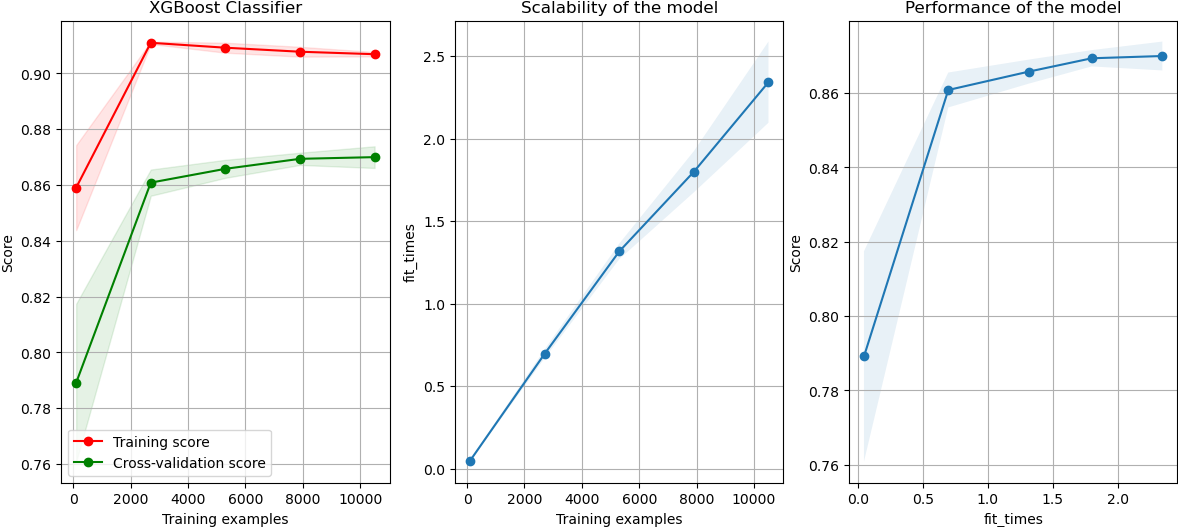
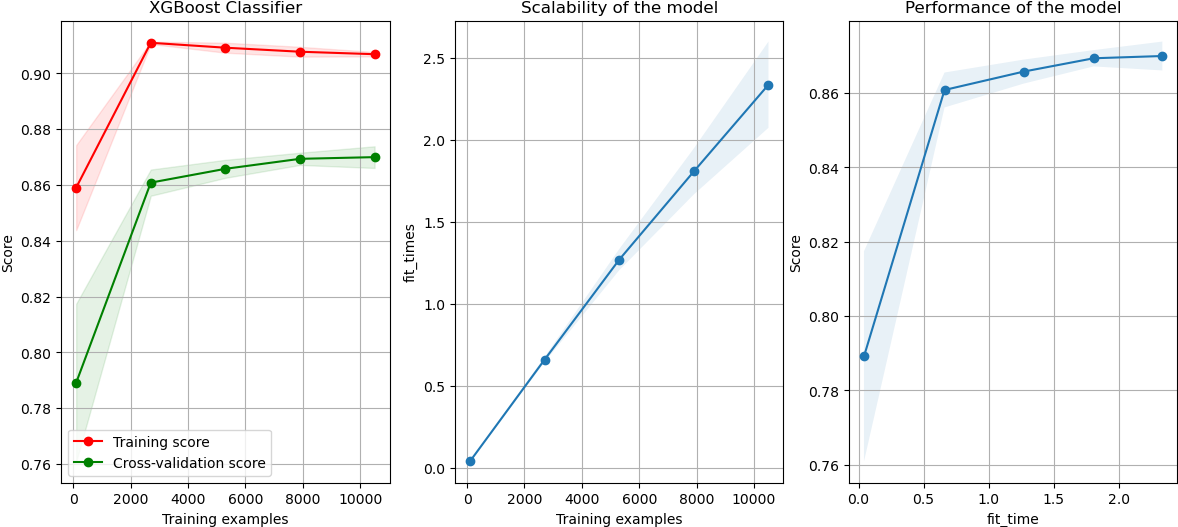
Refine learning curves

diff --git a/utils.py b/utils.py
@@ -409,7 +409,7 @@ def plot_learning_curve(
     ylim=None,
     cv=None,
     n_jobs=None,
-    train_sizes=np.linspace(0.1, 1.0, 5),
+    train_sizes=np.linspace(0.01, 1.0, 5),
 ) -> plt:
     """
     Generate 3 plots: the test and training learning curve, the training
@@ -545,7 +545,7 @@ def plot_learning_curve(
         test_scores_mean + test_scores_std,
         alpha=0.1,
     )
-    axes[2].set_xlabel("fit_times")
+    axes[2].set_xlabel("fit_time")
     axes[2].set_ylabel("Score")
     axes[2].set_title("Performance of the model")
 

diff --git a/project_report.md b/project_report.md
@@ -37,13 +37,15 @@ Ander Ryd in his [paper](https://wiki.classe.cornell.edu/pub/People/AndersRyd/DH
 
 ### Problem Statement
 
-The problem falls into the category of binary classification problems. Based on particle collision events (that cause the $D_s \to φπ$ decays) and their properties, I am challenged to train a machine learning model that predicts whether the decay we are interested in happens in a collision. The model will be trained in the train set of the existing dataset, and it will be evaluated on the testing set.
+The problem falls into the category of binary classification problems. Based on particle collision events (that cause the $D_s \to φπ$ decays) and their properties, I am challenged to train a machine learning model that predicts whether the decay we are interested in happens in a collision. The model will be trained on the training set, which the 80% of the existing dataset described in the section, and it will be evaluated on the remaining data.
 
 ## Data Exploration
 
 As described in the [flavors of physics](https://www.kaggle.com/c/flavours-of-physics/overview/agreement-test) project, the $D_s \to φπ$ decay has a very similar topology as the *tau* decay, and their datasets share almost the same features. In the *tau* decay problem, the Ds decay data is used as part of the CERN evaluation process. This dataset will be used as the main dataset of the $D_s \to φπ$ decay problem solution.
 
-This is a labeled dataset of 16.410 samples and 46 features, which are described below. The *signal* column classifies the samples into *signal events* (decays happening) denoted with *1* and *background events* (decays not happening) denoted with *0*.  The features of the dataset are described below:
+The dataset used for this project can be found [here](https://github.com/Punchyou/flavors_of_physics_Ds_decay/blob/master/data/resampled_data.csv). However, this is a resampled dataset (find more information on that at the end of this section). More information on how to obtain the original dataset can be found in the [project proposal](https://github.com/Punchyou/flavors_of_physics_Ds_decay/blob/master/proposal.md#obtain-the-dataset).
+
+The dataset used is a labeled dataset of 16.410 samples and 46 features, which are described below. The *signal* column classifies the samples into *signal events* (decays happening) denoted with *1* and *background events* (decays not happening) denoted with *0*.  The features of the dataset are described below:
 * FlightDistance - Distance between Ds and PV (primary vertex, the original protons collision point).
 * FlightDistanceError - Error on FlightDistance.
 * LifeTime - Life time of Ds candidate.
@@ -92,85 +94,71 @@ This is a labeled dataset of 16.410 samples and 46 features, which are described
 * SPDhits - Number of hits in the SPD detector.
 * signal - This is the target variable.
 
-The dataset is balanced, with 8.205 signal events and 8.205 background events, with no missing values. The testing set that is used for the calculation of the performance metrics is the 20% of the dataset, 3.282 samples. A simple count plot is below:
+##### Balance of Data
+The initial dataset has been resampled as it was heavily imbalanced and with too many samples to be easily downloaded by the reviewers of this project. After resampling, I made sure there were enough data for this analysis. You can refer to the [project proposal](https://github.com/Punchyou/flavors_of_physics_Ds_decay/blob/master/proposal.md#obtain-the-dataset) for more information on how to obtain the original dataset. The resampling technique used is the following:
+```py
+from imblearn.under_sampling import RandomUnderSampler
+undersampler = RandomUnderSampler(random_state=42)
+# X is an array of are the features and y is an 1D array of target variable
+X_resampled, y_resampled = undersampler.fit_resample(X, y)
+```
+
+The new dataset produced is balanced, with 8.205 signal events and 8.205 background events, with no missing values. The testing set that is used for the calculation of the performance metrics is the 20% of the dataset, 3.282 samples. A simple count plot  of the samples per class is presented below:
 <div align="center">
 <img src="https://raw.githubusercontent.com/Punchyou/flavors_of_physics_Ds_decay/master/images/signal_value_counts.png" alt="drawing" width="400"/>
 </div>
 
-To have a better understanding of the data, I used [PCA](https://towardsdatascience.com/understand-your-data-with-principle-component-analysis-pca-and-discover-underlying-patterns-d6cadb020939) to reduce the dimentions of the dataset and to be able to visualize them in 3 dimentions. PCA method captures the maximum variance across the features and projects observations onto mutually uncorrelated vectors (components). Although it is used for dimensionality reduction, it also helps to discover underlying patterns across features. It is a common algorithm dimentionality reduction before implementing clustering algorithms, but I use it here to get an idea of how the data look like in fewer dimensions. As PCA projects the data to less dimensions, I had to scale the data beforehand with a standard scaler.
+##### Dimentionality Reduction
+To have a better understanding of the data, I used [PCA](https://towardsdatascience.com/understand-your-data-with-principle-component-analysis-pca-and-discover-underlying-patterns-d6cadb020939) to reduce the dimentions and to visualize them in the 3 dimentional space.  The PCA method captures the maximum variance across the features and projects observations onto mutually uncorrelated vectors (components). Although it is used for dimensionality reduction, it also helps to discover underlying patterns across features. It is a common algorithm used for dimentionality reduction before implementing clustering algorithms, but I use it here to get an idea of how the data look like in fewer dimensions. As PCA projects the data to less dimensions, I had to scale the data beforehand with the [`sklearn` standard scaler](https://scikit-learn.org/stable/modules/generated/sklearn.preprocessing.StandardScaler.html).
 
 <div align="center">
 <img src="https://raw.githubusercontent.com/Punchyou/flavors_of_physics_Ds_decay/master/images/pca_binary_scatter_3d_plot.png" alt="drawing" width="800"/>
 </div>
 
-My intention for this plot was to see if I can clearly spot two seperate blobs of data, so a clear seperation between the signal and background events. However, this is something that is visible for this plot 3D plot.
+My intention for this plot was to see if I can clearly spot two seperate blobs of data, so a clear seperation between the signal and background events. However, this is something that is visible from this 3D plot.
 
-To take a closer look the features, I plotted the distribution of each attribute. Most variables have a skewed distribution, so the dataset provides a good candidate for scaling the data, for example with a robust scaler transform to standardize the data in the presence of skewed distributions and outliers.
-
+##### Features Distribution
+The next step of the data analysis was to take a closer look at the features. A plot of the the distribution of each attribute is presented below.
 <div align="center">
-<img src="https://raw.githubusercontent.com/Punchyou/flavors_of_physics_Ds_decay/master/images/features_distributions.png" alt="drawing" width="700"/>
+<img src="https://raw.githubusercontent.com/Punchyou/flavors_of_physics_Ds_decay/master/images/features_distributions.png" alt="drawing" width="800"/>
 </div>
 
-The following heatmap shows how linearly correlated the features are. The annotated numbers show the [Pearson correlation coefficients](https://medium.com/analytics-vidhya/feature-selection-techniques-2614b3b7efcd). This is a common method intended to reduce the number of input variables to those that are believed to be most useful to a model in order to predict the target variable. Pearson correlation assumes a Gaussian probability distribution to the observations and a linear relationship, so I have scaled the data with a robust scaler transform before calculating the correlations between the features. The highest coefficients are below 0.9, and over 0.8 for 4 features, so I decided to include all featrues in the training dataset.
+Most variables have a skewed distribution, so the dataset provides a good candidate for scaling the data, for example with a robust scaler transform to standardize the data in the presence of skewed distributions and outliers.
+
+##### Features Correlation
+The following [heatmap](https://github.com/Punchyou/flavors_of_physics_Ds_decay/blob/master/images/features_correlation_heatmap.png) shows how linearly correlated the features are. The annotated numbers show the [Pearson correlation coefficients](https://medium.com/analytics-vidhya/feature-selection-techniques-2614b3b7efcd). This is a common method intended to reduce the number of input variables to those that are believed to be most useful to a model in order to predict the target variable. Pearson correlation assumes a Gaussian probability distribution to the observations and a linear relationship, so the data were scaled with a robust scaler transform before calculating the correlations between the features. The highest coefficients are below 0.9, and over 0.8 for only 4 features, so I decided to include all of them in the training process.
 
 <div align="center">
 <img src="https://raw.githubusercontent.com/Punchyou/flavors_of_physics_Ds_decay/master/images/features_correlation_heatmap.png" alt="drawing" width="700"/>
 </div>
 
+From the analysis above it is clear that the data need to be scaled before they are fed into the ML models.
+
 > *All the plots in this section are generated by executing the [data_exploration](https://github.com/Punchyou/flavors_of_physics_Ds_decay/blob/master/data_exploration.py) python file. The dataset described can be found [here](https://github.com/Punchyou/flavors_of_physics_Ds_decay/blob/master/data/resampled_data.csv).* 
 
-Note that the dataset has been resampled, as the initial dataset was imbalanced and  to the size of the first dataset. You can refer to the [project proposal](https://github.com/Punchyou/flavors_of_physics_Ds_decay/blob/master/proposal.md#obtain-the-dataset) for more information. The resampling technique use is the following:
-```py
-from imblearn.under_sampling import RandomUnderSampler
-undersampler = RandomUnderSampler(random_state=42)
-X_resampled, y_resampled = undersampler.fit_resample(X, y)
-```
-
-From the analysis above it is clear that the data need to be scaled before they are fed to the ML models.
 ## Algorithms Implementation
 
 This is a supervised binary classification problem, so the solution will be the output of a binary classifier. There is no constrain in using any classifier in particular for this problem. However, in the [evaluation description](https://www.kaggle.com/c/flavours-of-physics/overview/agreement-test) of the Kaggle competition described so far, it is mentioned that the [Kolmogorov–Smirnov (KS)](https://en.wikipedia.org/wiki/Kolmogorov%E2%80%93Smirnov_test) test is used to evaluate the differences between the classifier distribution and the true *signal* values distribution. Also, the KS test should be less than 0.09.
 
-### Models Exploration
-To solve this problem, I trained a number of binary classifiers, using different hyperparameters tuning methods, in combination with different data scaling methods. For all the different results, a number of performance metrics are gathered in a single table, and the best model is chosen based on the metrics values. The metrics are presented in the *Models Performance* section. As part of the project proposal, I trained the benchmark model presented below.
+#### Models Exploration
+To solve this problem, I trained a number of binary classifiers, using different hyperparameters tuning methods for different models, in combination with different data scaling methods. For all the results, a number of performance metrics are gathered in a single table, and the best model is chosen based on the metrics values. More information on the metrics are described in the *Models Performance* section.
 
+#### Benchmark Model
 
-### Benchmark Model
-
-As a benchmark model, I use a simple k-Nearest Neighbor classifier, and grid search for tuning the k hyperparameter. The benchmark model script can be found [here](https://github.com/Punchyou/flavors_of_physics_Ds_decay/blob/master/knn_benchmark_model.py). The execution of that script generates the following plot. The plot shows the accuracy of the kNN model for each one of the k values (from 1 to 80). The best model is the kNN model with k=52, and highest accuracy of 71%.
+As part of the project proposal, I trained the benchmark model. As a benchmark model, I use a simple k-Nearest Neighbor classifier, and grid search for tuning the k hyperparameter. The benchmark model script can be found [here](https://github.com/Punchyou/flavors_of_physics_Ds_decay/blob/master/knn_benchmark_model.py). The execution of that script generates the following plot. The plot shows the accuracy of the kNN model for each one of the k values (from 1 to 80). The best model is the kNN classifier with k=52, and highest accuracy of 71%.
 
 <div align="center">
 <img src="https://raw.githubusercontent.com/Punchyou/flavors_of_physics_Ds_decay/master/images/knn_benchmark_acc.png" alt="drawing" width="600"/>
 </div>
 
-The plot above is generated by executing the [benchmark model script](https://github.com/Punchyou/flavors_of_physics_Ds_decay/blob/master/knn_benchmark_model.py)
-
-### Improving the Benchmark Model
-To improve on the benchmark model, I trained a number of different binary classifiers and compared their performance. You can find the script with the modesl exploration [here](https://github.com/Punchyou/flavors_of_physics_Ds_decay/blob/master/models_exploration.py). As scaling of the input data is a requirement for most machine learning estimators in this project, I have also scaled the data in different ways. An example is a Support Vector Machines model (mentioned below), which assumes that all features are centered around 0 and have variance in the same order. If a feature has a variance that is orders of magnitude larger that others, it might dominate the objective function and make the estimator unable to learn from other features correctly as expected.
+#### Improving the Benchmark Model
+To improve on the benchmark model, I trained a number of different binary classifiers and compared their performance. You can find the script with the modesl exploration [here](https://github.com/Punchyou/flavors_of_physics_Ds_decay/blob/master/models_exploration.py). As scaling of the input data is a requirement for most machine learning estimators in this project, and a transform that could improve the resulrs as the shown in the data analysis procided above, I have also scaled the data in three different ways. An example of its importance is a Support Vector Machines model (one of the models trained), which assumes that all features are centered around 0 and have variance in the same order. If a feature has a variance that is orders of magnitude larger that others, it might dominate the objective function and make the estimator unable to learn from other features correctly as expected. The scaling methods used are: `sklearn`'s [Standard Scaling](https://scikit-learn.org/stable/modules/generated/sklearn.preprocessing.StandardScaler.html), `sklearn`'s [Minmax Scaling](https://scikit-learn.org/stable/modules/generated/sklearn.preprocessing.MinMaxScaler.html) and `sklearn`'s [Robust Scaling](https://scikit-learn.org/stable/modules/generated/sklearn.preprocessing.RobustScaler.html).
 
 All scaled methods were used in combination with all the models. Also, different methods of hyperparameter tuning were used for each model.
 
-##### Scaling methods used
-* `sklearn`'s [Standard Scaling](https://scikit-learn.org/stable/modules/generated/sklearn.preprocessing.StandardScaler.html): 
-
-$$z = (x - u) / s$$
-
-where $u$ is the mean of the training samples or zero if `mean=False`, and $s$ is the standard deviation of the training samples or one if `std=False`.
-
-* `sklearn`'s [Minmax Scaling](https://scikit-learn.org/stable/modules/generated/sklearn.preprocessing.MinMaxScaler.html):
-
-$$X_{scaled} = X_{std} * (max - min) + min$$
-where min, max is the features range
-
-This estimator scales and translates each feature individually such that it is in the given range on the training, zero and one in this case.
-
-* `sklearn`'s [Robust Scaling](https://scikit-learn.org/stable/modules/generated/sklearn.preprocessing.RobustScaler.html):
-
-Scales features using statistics that are robust to outliers. This Scaler removes the median and scales the data according to the quantile range.
-
 ##### Binary Classifiers trained
 
-The script that implement the following models can be found [here](https://github.com/Punchyou/flavors_of_physics_Ds_decay/blob/master/models_exploration.py), where you can see the ranges of parameters used for hyperparameters tuning in more detail.
+The script that implements the following models can be found [here](https://github.com/Punchyou/flavors_of_physics_Ds_decay/blob/master/models_exploration.py), where you can see the range of parameters used for hyperparameters tuning in more detail.
 
 The models used are:
 
@@ -181,22 +169,23 @@ The details of the kNN model are explained in the benchmark model section. For t
 
 * [Support Vector Machines](https://scikit-learn.org/stable/modules/svm.html), tuned with [Random Search](https://scikit-learn.org/stable/modules/generated/sklearn.model_selection.RandomizedSearchCV.html). Different options of *regularization*, *decision function shape* and *kernel* parameters were used for the SVM Random Search (refer to the models exploration [script](https://github.com/Punchyou/flavors_of_physics_Ds_decay/blob/master/models_exploration.py) for more).
 
-* [XGBoost](https://xgboost.readthedocs.io/en/latest/index.html) with Bayes optimization for hyper parameters tuning using [skopt Bayes Search](https://scikit-optimize.github.io/stable/modules/generated/skopt.BayesSearchCV.html), that uses a fixed number of parameters, sampled from a specified distribution. The first optimization maximizes the classifier function (XGBoost in this case) and gives the uses the control of the steps of the bayesian optimization and the steps of the random exploration that can be performed.
+* [XGBoost](https://xgboost.readthedocs.io/en/latest/index.html) with Bayes optimization. XGBoost is a more complidated algorithms than the ones described so far, and is designed to make the best use of available resources to train the model. an ensemble technique where new models are added to correct the errors made by existing models. Models are added sequentially until no further improvements can be made. A popular example is the AdaBoost algorithm that weights data points that are hard to predict.
+
+Gradient boosting is an approach where new models are created that predict the residuals or errors of prior models and then added together to make the final prediction. It is called gradient boosting because it uses a gradient descent algorithm to minimize the loss when adding new models.
+
+For the hyper parameters tuning, [skopt Bayes Search](https://scikit-optimize.github.io/stable/modules/generated/skopt.BayesSearchCV.html) was used, that utilizes a fixed number of parameters, sampled from a specified distribution. The first optimization maximizes the classifier function (XGBoost in this case) and gives the uses the control of the steps of the bayesian optimization and the steps of the random exploration that can be performed.
  
 The XGBoost model is the one I chose to predict the test set. A seperate script that implements XGBoost and returns the [predicted *signal* values](https://github.com/Punchyou/flavors_of_physics_Ds_decay/blob/master/reports/signal_final_prediction.csv) can be found [here](https://github.com/Punchyou/flavors_of_physics_Ds_decay/blob/master/model.py).
 
 ## Models Performance
 
-TODO: integrate:According to the original kaggle problem described in the problem definition section, the KS test have to be lower than 0.09 for the model to be considered "good enough" to pass. All the models trained are below 0.09, so I had to look for more metrics.
+According to the original kaggle [problem evaluation instructions]([here](https://www.kaggle.com/c/flavours-of-physics/overview/agreement-test).) described in the problem definition section, the KS test would be the metric based on which a model would be assessed against. The KS test value has to be lower than 0.09 for the model to be considered "good enough" to pass. All the models trained (except from the benchmark model) are below 0.09, so I considered more performance metrics to rank the models based on their performance.
 
-TODO: from kaggle: The control channel dataset is used purely in Kolmogorov–Smirnov test. We require the KS-value of the test to be smaller than 0.09. Only when a submission can pass the agreement test on these ignored data, we can then regard the predictions as valid. Find the pass test instructions [here](https://www.kaggle.com/c/flavours-of-physics/overview/agreement-test).
+I use `sklearn` accuracy as the main performance metric based on which I compare the models. I am also calculating a number of other metrics in order to have more information about how the models perform, for example in cases like prediction of true positives or negatives. Accuracy is calculated by dividing the number of correct predictions by the total number of samples. As the dataset is balanced with equal class distribution, the [accuracy paradox](https://en.wikipedia.org/wiki/Accuracy_paradox) is avoided and the metric does not provide misleading information about the models' performance. Note that I also used *accuracy* as the main evaluation metric to choose the best model from the Random Search or the Grid Search methods I used for hyperparameter tuning. In the case of XGBoost, which is optimized with bayesian optimization, accuracy is not a possible option to choose the best performing model, so [AUC](https://towardsdatascience.com/understanding-auc-roc-curve-68b2303cc9c5) was used to decide which is the best parameters, based on the model's capability to distinguish different classes.
 
+All the evaluation metrics that were calculated are: [*accuracy*](https://scikit-learn.org/stable/modules/generated/sklearn.metrics.accuracy_score.html), [*Kolmogorov–Smirnov test*](https://en.wikipedia.org/wiki/Kolmogorov%E2%80%93Smirnov_test), [*false positive rate, false negative rate, true negative rate, negative predictive value*](https://neptune.ai/blog/evaluation-metrics-binary-classification), [*Recall, Precision*](https://en.wikipedia.org/wiki/Precision_and_recall), [*F1*](https://machinelearningmastery.com/classification-accuracy-is-not-enough-more-performance-measures-you-can-use/).
 
-I use `sklearn` accuracy as the main performance metric based on which I compare the models. I am also calculating a number of other metrics in order to have more information about how the models perform, for example in cases like prediction of true positives or negatives. Accuracy is calculated by dividing the number of correct predictions by the total number of samples. As the dataset is balanced with equal class distribution, the [accuracy paradox](https://en.wikipedia.org/wiki/Accuracy_paradox) is avoided and the metric does not provide misleading information about the models' performance. Note that I also used *accuracy* as the main evaluation metric to choose the best model from the Random Search or the Grid Search methods I used for hyperparameter tuning. In the case of XGBoost, which is optimized with bayesian optimization, accuracy is not a possible option to choose the best parameters for the model, so [AUC](https://towardsdatascience.com/understanding-auc-roc-curve-68b2303cc9c5) was used to decide which is the best parameters for the model, based on the model's capability to distinguish different classes.
-
-All the evaluation metrics that were calculated are: [*Accuracy*](https://scikit-learn.org/stable/modules/generated/sklearn.metrics.accuracy_score.html), [*Kolmogorov–Smirnov test*](https://en.wikipedia.org/wiki/Kolmogorov%E2%80%93Smirnov_test), [*false positive rate, false negative rate, true negative rate, negative predictive value*](https://neptune.ai/blog/evaluation-metrics-binary-classification), [*Recall, Precision*](https://en.wikipedia.org/wiki/Precision_and_recall), [*F1*](https://machinelearningmastery.com/classification-accuracy-is-not-enough-more-performance-measures-you-can-use/).
-
-You can refer to the [metrics results](https://github.com/Punchyou/flavors_of_physics_Ds_decay/blob/master/reports/metrics_results.csv) for all the models' metrics, for all the scaling methods used on the data, before they are fed into the models. The following heatmap only shows the accuracy of all the models.
+You can refer to the [metrics results](https://github.com/Punchyou/flavors_of_physics_Ds_decay/blob/master/reports/metrics_results.csv) for all the models' metrics values. The results include all the scaling methods used on the data, before they are fed into the models. The following heatmap only shows the accuracy of all the models.
 
 <div align="center">
 <img src="https://raw.githubusercontent.com/Punchyou/flavors_of_physics_Ds_decay/master/images/accuracy_heatmap.png" alt="drawing" width="700"/>
@@ -205,28 +194,35 @@ You can refer to the [metrics results](https://github.com/Punchyou/flavors_of_ph
 The XGBoost model trained with data scaled with the `sklearn` standard scaler has the highest accuracy (0.87) and the lowest KS (0.004). It also has the highest precision (0.87) and highest true negative rate (0.86) of all the models trained, so it is the best model in terms of how well it can predict both true positive and true negative values.
 
 ## Conclusion
-You will collect results about the performance of the models used, visualize significant quantities, and validate/justify these values. Finally, you will construct conclusions about your results, and discuss whether your implementation adequately solves the problem.
 
-#### Learning curves
-Learning curve graphs:
-<div align="center">
-<img src="https://raw.githubusercontent.com/Punchyou/flavors_of_physics_Ds_decay/master/images/learning_curve.png" alt="drawing" width="1000"/>
-</div>
+The XGBoost model is the model I choose to solve the $D_s \to φπ$ problem. The KS test is below 0.09, so according to the kaggle competition description, is can pass the test for approval. I looked for alternative additional metrics, but I decided to choose the final model based on a simple performance metric, accuracy, since the dataset is balanced and to make sure I also consider the metrics of the best accuracy model that asses true or false positive or nagetive values. The accuracy is 87%, which I believe is good enough for solving this problem, and the model can also predict true positive and negative values well.
 
-TODO: add learning curve plot understanding
+##### Comparison of models
+A comparison of the XGBoost model with the benchmark model follows.
 
-"""The first plot is the learning curve
-The plots in the second row show the times required by the models to train with various sizes of training dataset. The plots in the third row show how much time was required to train the models for each training sizes."""
-
-#### Comparison with the benchmark model
 <div align="center">
 <img src="https://raw.githubusercontent.com/Punchyou/flavors_of_physics_Ds_decay/master/images/comparison_heatmap.png" alt="drawing" width="600"/>
 </div>
 
-TODO: Add a structure of the project in README
-#### TODO Further improvements:
-* Improve feature selection
-* Use model stacking
+ The accuracy of the benchmark model is low, and it doesn't pass the acceptance tests, as its KS test is below 9%.  Considering all the models used, I believe the greatest improvement in performance came from scaling the data, as the majority of the features were unevenly distributed. Even the kNN models trained with scaled data, the lowest improvement in accurasy was 12% (data scaled with the robust scaler), comparison it with the kNN benchmark model.
+
+
+##### Future improvements on the model
+The following suggestions concern future improvements on the chosen model. To have a deeper understanding of how well the XGBoost model can learn, a plot of the [learning curve](https://machinelearningmastery.com/learning-curves-for-diagnosing-machine-learning-model-performance/) of the model follows.
+
+<div align="center">
+<img src="https://raw.githubusercontent.com/Punchyou/flavors_of_physics_Ds_decay/master/images/learning_curve.png" alt="drawing" width="1000"/>
+</div>
+The first plot is the learning curve. It shows the relationship between the training examples size and the training and validation sets' accuracy score. In this plot, the training accuracy score is higher as expected, and both sets' accuracy are improving to a point of stability. The gap between the two lines is also low, so the model is generally a good fit. An higher accuracy score on the validation set could maybe be achieved by increasing the number of training samples, so this is something to consider in future improvements of this model.
+
+The second plot shows the times required by the models to train with various sizes of training datasets. The third plot shows how much time was required to train the models for each training size.
+
+As mentioned above, a higher number of training samples might improve the performance of the validation set, so future improvement could be to use a bigger part of the original dataset, and transform the dataset into a less heavily imbalanced one. An alternative to accuracy performance metrics could be essential to choose the model with the best fit.
+
+Other areas to explore:
+* Try [adding/creating more features](https://www.cs.cmu.edu/~kdeng/thesis/feature.pdf).
+* Improve feature selection using different selection methods to get a smaller, but better combination of features.
+* Use model stacking. A combination of weaker learners could result a high performing model.
 
 ## Project Proposal
 You can find [here](https://review.udacity.com/#!/reviews/2935541) the submission of the project proposal.
@@ -266,7 +262,9 @@ You can find [here](https://review.udacity.com/#!/reviews/2935541) the submissio
 * https://machinelearningmastery.com/quick-and-dirty-data-analysis-with-pandas/
 * https://machinelearningmastery.com/feature-selection-with-real-and-categorical-data/
 * https://towardsdatascience.com/feature-selection-correlation-and-p-value-da8921bfb3cf
-
+* https://machinelearningmastery.com/learning-curves-for-diagnosing-machine-learning-model-performance/
+* https://www.dataquest.io/blog/learning-curves-machine-learning/
+* https://www.cs.cmu.edu/~kdeng/thesis/feature.pdf
 Books:
 Data Science from Scratch
 Machine learning with python
